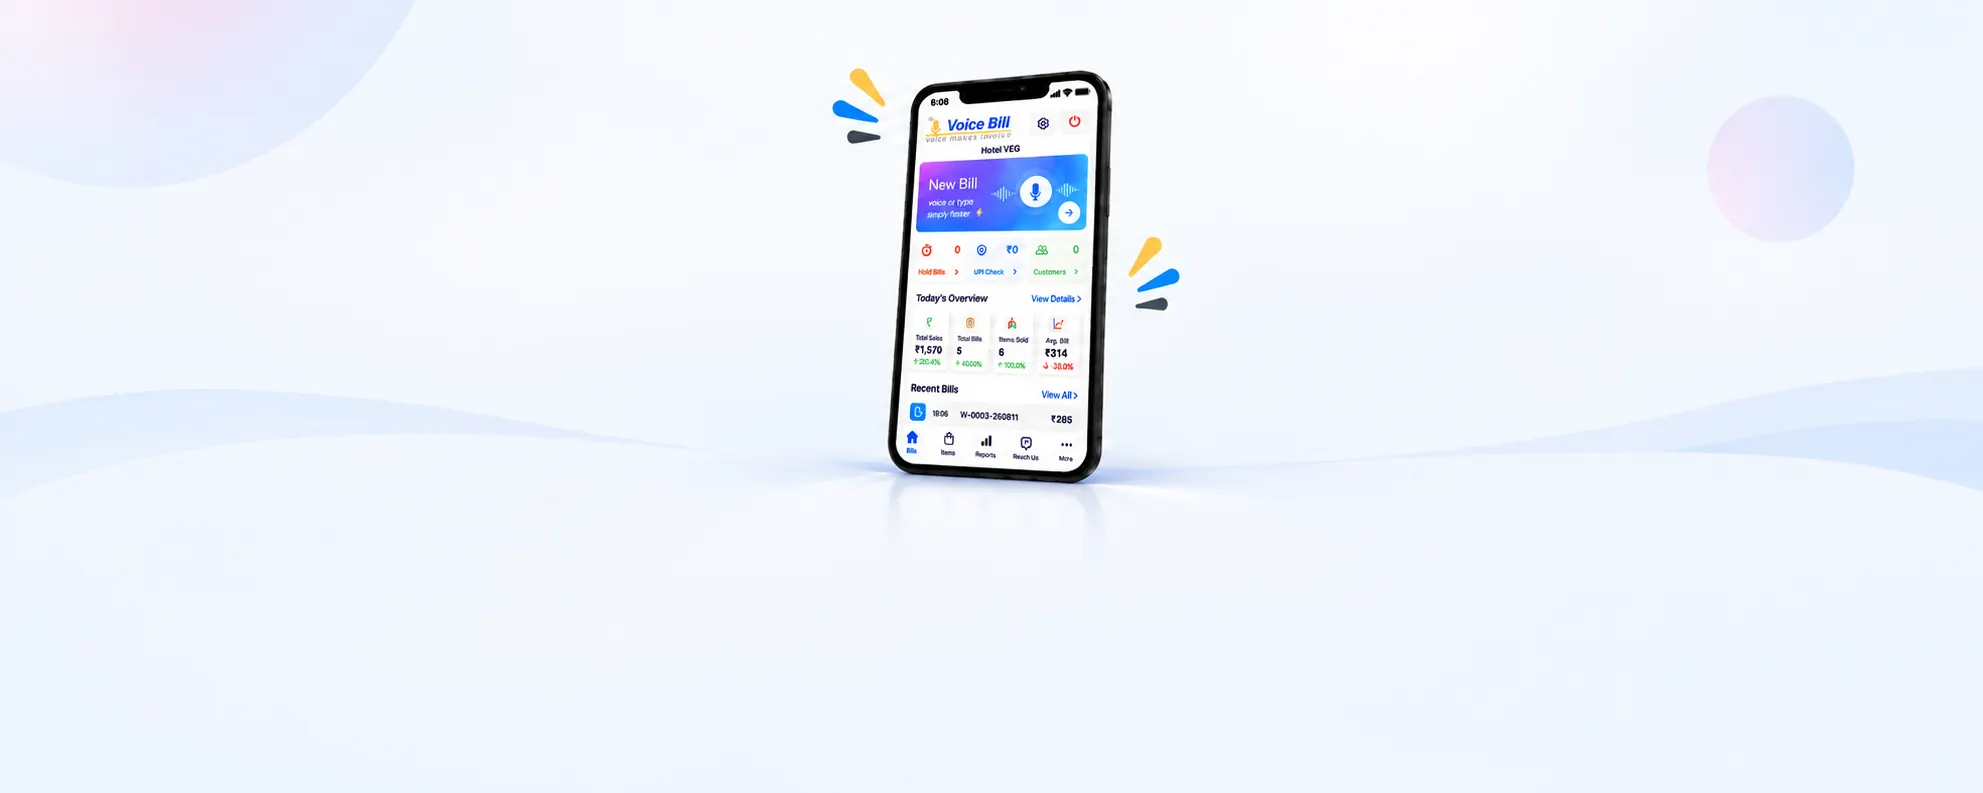
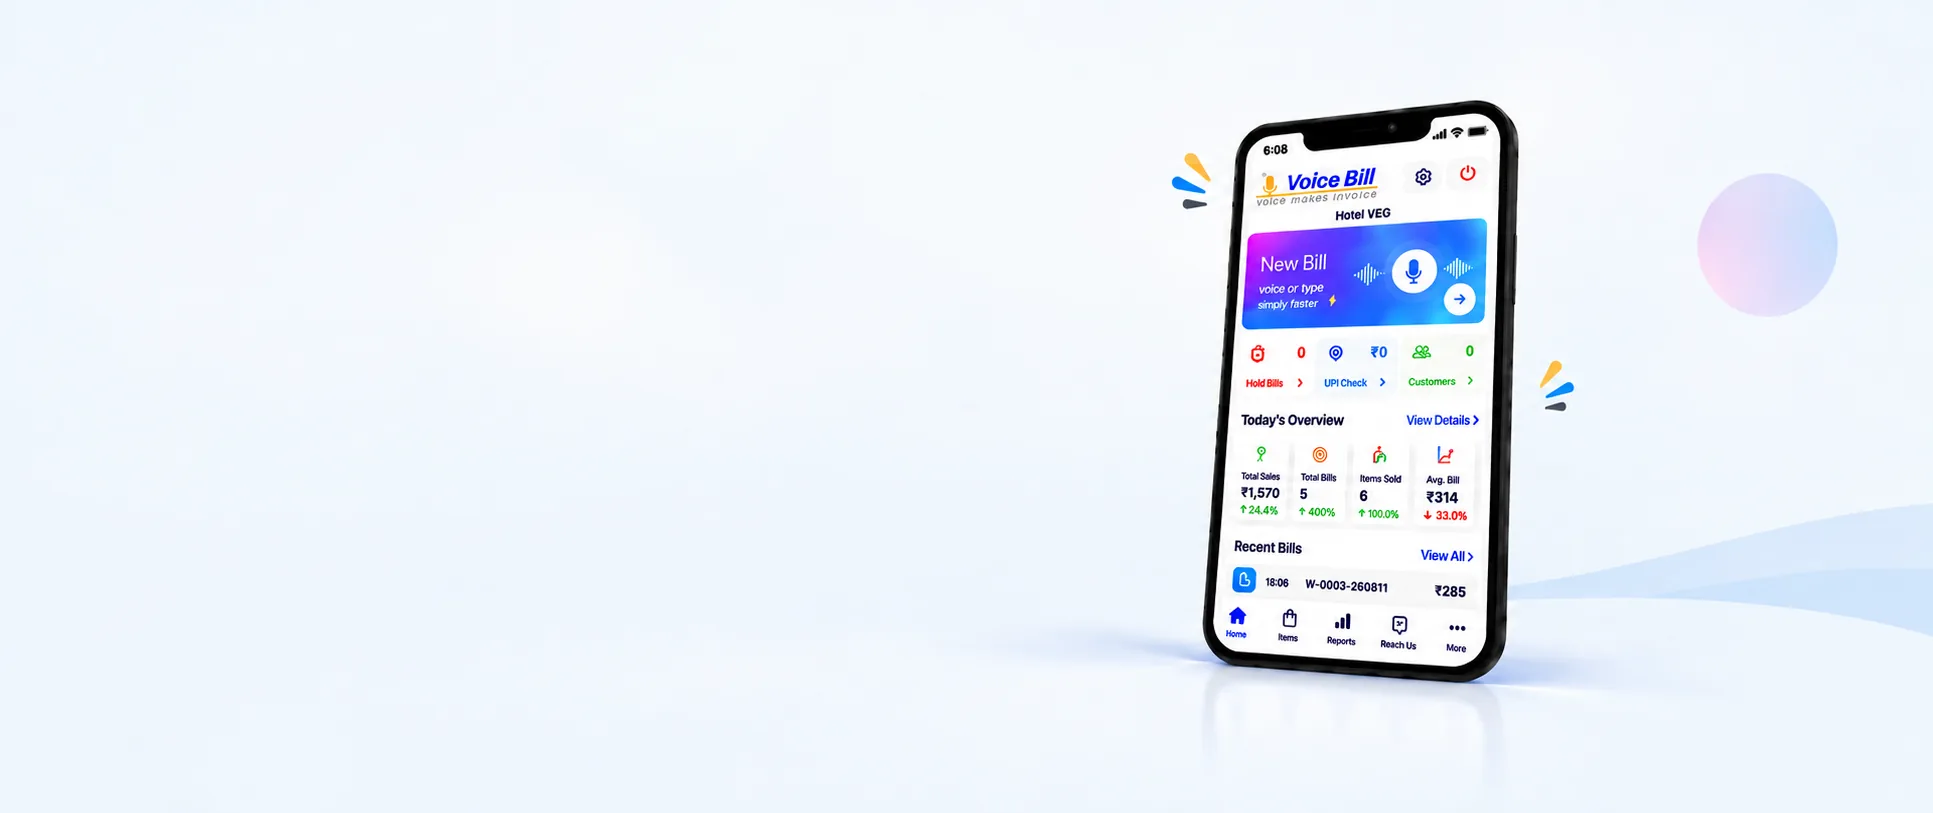
Products page overall corrections completed

diff --git a/src/pages/Products.jsx b/src/pages/Products.jsx
@@ -55,22 +55,22 @@ export default function Products() {
         <div className="image-overlay">
           <div className="demander-hero-content">
             <p className="section-eyebrow">Demander · Smart Ordering Platform</p>
-            <h2 className="section-title">
-              Connecting Businesses Beyond Calls Chats Visits and Emails
+            <h2 className="section-title demander-hero-title">
+              Connecting Businesses  <br /> Beyond Calls Chats Visits and Emails
             </h2>
             <h3 className="section-subtitle">
-              A smarter way to receive manage and track every order
+              A Smarter Way to Manage B2B Orders
             </h3>
             <p className="section-desc">
               Demander brings buyers and sellers together on one connected platform,
               making it easier to receive, manage and track orders without the
               everyday friction of scattered conversations.
             </p>
-            <p className="demander-support-line">Receive Orders Without the Noise</p>
+            <p className="demander-support-line">Receive Orders 24X7,  Without the Noise</p>
             <div className="gpro-hero-buttons demander-hero-buttons">
               <a
-                href="https://gprosoftware.com/book-a-demo"
-                target="_blank"
+                href="#"
+              
                 rel="noopener noreferrer"
                 className="gpro-hero-btn gpro-hero-btn--primary btn-text"
               >
@@ -89,25 +89,23 @@ export default function Products() {
         </div>
       </section>
 
-      <section className="image-background-section voicebill-hero-section">
+      <section className="image-background-section voicebill-hero-section demander-hero-section">
         <img src={voicebillBg} alt="Voice Bill mobile billing app" className="image-background" />
         <div className="image-overlay">
-          <div className="voicebill-hero-top">
+          <div className="demander-hero-content">
             <img src={voicebillLogo} alt="Voice Bill logo" className="voicebill-hero-logo" />
             <h2 className="section-title">Simply Speak, Simply Bill</h2>
-          </div>
-          <h3 className="section-subtitle voicebill-hero-subtitle">
-            An innovative solution <br /> for faster retail billing
-          </h3>
-          <div className="voicebill-hero-bottom">
+            <h3 className="section-subtitle nowrap-line">
+              An innovative solution for faster retail billing
+            </h3>
             <p className="section-desc">
               Built for busy retail counters, Voice Bill mobile app makes billing faster,
-              simpler, and easier —<br />so you can serve more customers with less effort.
+              simpler, and easier — so you can serve more customers with less effort.
             </p>
             <div className="gpro-hero-buttons voicebill-hero-buttons">
               <a
-                href="https://gprosoftware.com/book-a-demo"
-                target="_blank"
+                href="#"
+                
                 rel="noopener noreferrer"
                 className="gpro-hero-btn gpro-hero-btn--primary btn-text"
               >
@@ -130,11 +128,12 @@ export default function Products() {
         <img src={comingSoonBg} alt="Upcoming Daxin products" className="image-background" />
         <div className="image-overlay">
           <div className="demander-hero-content comingsoon-hero-content">
+            <p className="section-eyebrow">What Next</p>
             <h2 className="section-title">Something new is taking shape</h2>
             <p className="section-desc">
               We’re working on new ideas and solutions designed to help businesses work smarter.
             </p>
-            <p className="section-desc">Stay tuned for what’s coming next.</p>
+            <p className="coming-soon-support-line">Stay tuned for what’s coming next.</p>
           </div>
         </div>
       </section>

diff --git a/src/styles/Products.css b/src/styles/Products.css
@@ -21,7 +21,7 @@
   position: relative;
   width: 100%;
   aspect-ratio: 1920 / 790;
-  min-height: 620px;
+  min-height: 820px;
   overflow: hidden;
 }
 
@@ -78,7 +78,9 @@
 .gpro-hero-btn {
  
   padding: 0 28px;
+  width: 220px;
   height: 51px;
+  box-sizing: border-box;
   border-radius: 8px;
   display: inline-flex;
   align-items: center;
@@ -204,21 +206,35 @@
   font-size: 34px;
   font-weight: 500;
   letter-spacing: 0;
-  color: #2563EB; 
+  color: #b85c0a;
+  margin-top: 60px ;
+  margin-left: 60px;
+}
+
+
+.demander-hero-content .coming-soon-support-line {
+  font-family: "Caveat", cursive;
+  font-size: 34px;
+  font-weight: 500;
+  letter-spacing: 0;
+  color: #1f7a52;
   margin-top: 60px ;
   margin-left: 130px;
 }
+
 
 .demander-hero-buttons {
   margin-top: 52px;
 }
 
-.comingsoon-hero-content .section-title {
+.comingsoon-hero-content .section-title,
+.demander-hero-title {
   white-space: nowrap;
 }
 
 @media (max-width: 960px) {
-  .comingsoon-hero-content .section-title {
+  .comingsoon-hero-content .section-title,
+  .demander-hero-title {
     white-space: normal;
   }
 }
@@ -247,16 +263,16 @@
 
 .voicebill-hero-logo {
   display: block;
-  height: 70px;
+  height: 90px;
   width: auto;
-  max-width: 220px;
+  max-width: 250px;
   object-fit: contain;
   margin-bottom: 16px;
 }
 
 .voicebill-hero-subtitle {
   position: absolute;
-  top: 50%;
+  top: 42%;
   left: 67%;
   width: auto;
   white-space: nowrap;
@@ -273,15 +289,17 @@
 }
 
 .voicebill-hero-buttons {
-  justify-content: center;
+  margin-top: 52px;
 }
 
-.voicebill-hero-bottom .section-desc {
-  margin: 0;
+.nowrap-line {
+  white-space: nowrap;
 }
 
-.voicebill-hero-buttons {
-  margin-top: 28px;
+@media (max-width: 960px) {
+  .nowrap-line {
+    white-space: normal;
+  }
 }
 
 @media (max-width: 960px) {
